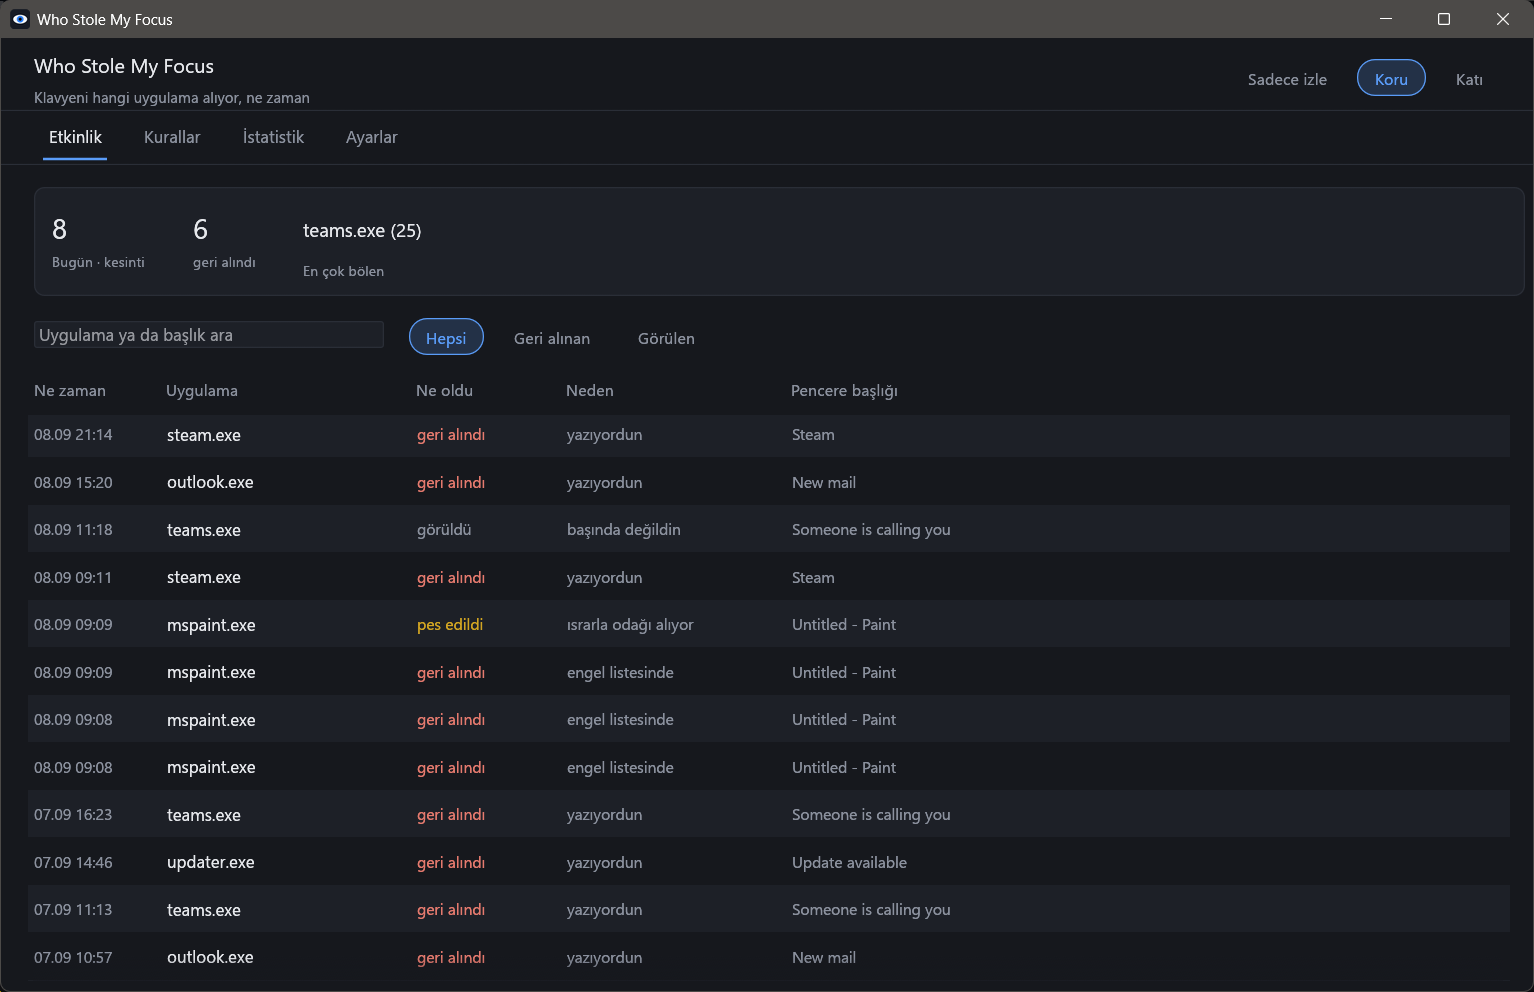
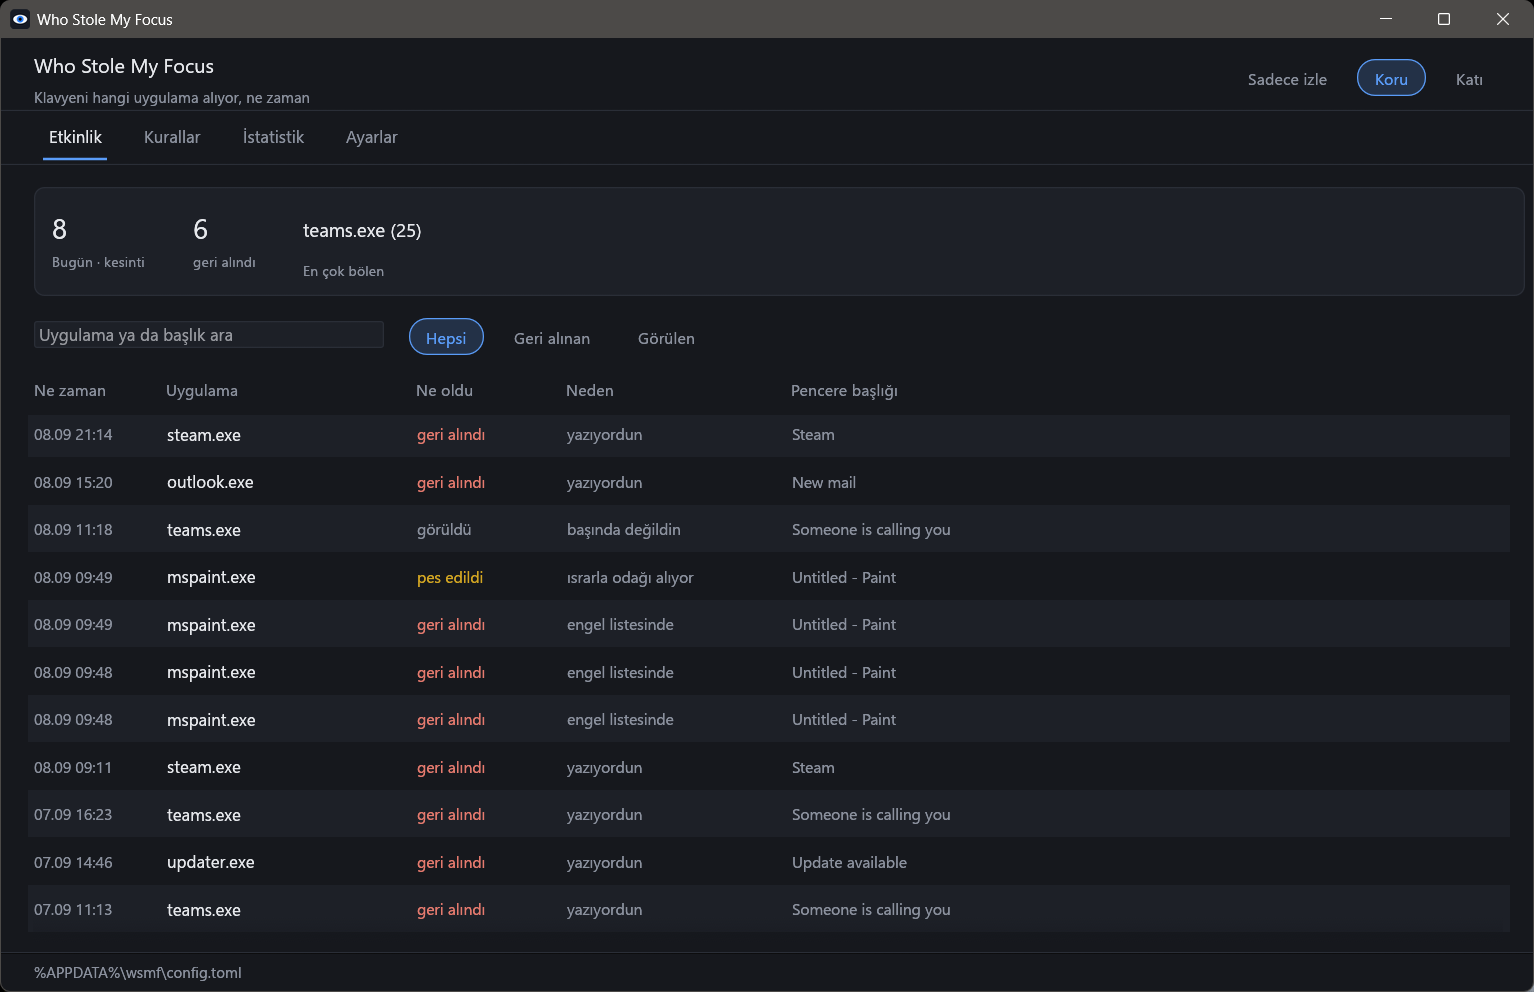
Centre the settings column, and write the path the way a person would
Settings were pinned to the left of a wide window with a wide empty strip beside
them; the column is now capped and centred. The status bar showed the fully
expanded roaming path, which is long and says nothing: it shortens back to
%APPDATA% when that is where it actually is.

diff --git a/src/panel/settings.rs b/src/panel/settings.rs
@@ -8,10 +8,14 @@ use eframe::egui::{self, RichText, Ui};
 pub fn show(panel: &mut Panel, ui: &mut Ui) {
     ui.add_space(theme::GAP);
     egui::ScrollArea::vertical().show(ui, |ui| {
+        // Settings read better in a column than stretched across a wide window, so
+        // the column is capped and centred rather than pinned to the left edge.
+        const COLUMN: f32 = 820.0;
         ui.horizontal(|ui| {
-            ui.add_space(theme::MARGIN);
+            let room = ui.available_width() - theme::MARGIN * 2.0;
+            ui.add_space(theme::MARGIN + ((room - COLUMN) / 2.0).max(0.0));
             ui.vertical(|ui| {
-                ui.set_max_width((ui.available_width() - theme::MARGIN).min(820.0));
+                ui.set_max_width(room.min(COLUMN));
                 mode(panel, ui);
                 ui.add_space(theme::GAP);
                 timing(panel, ui);

diff --git a/src/config.rs b/src/config.rs
@@ -208,6 +208,19 @@ pub fn log_path() -> PathBuf {
     data_dir().join("focus.log")
 }
 
+/// The settings path as a person would write it, with the roaming folder shortened
+/// back to %APPDATA%.
+pub fn config_path_label() -> String {
+    let path = config_path();
+    let text = path.to_string_lossy();
+    match std::env::var("APPDATA") {
+        Ok(roaming) if !roaming.is_empty() && text.starts_with(&roaming) => {
+            format!("%APPDATA%{}", &text[roaming.len()..])
+        }
+        _ => text.into_owned(),
+    }
+}
+
 /// When the settings file last changed, so the running copy can pick up an edit
 /// made in the panel, or in a text editor, without being restarted.
 pub fn changed_at() -> Option<SystemTime> {

diff --git a/src/panel/mod.rs b/src/panel/mod.rs
@@ -179,7 +179,7 @@ impl Panel {
             .show(ui, |ui| {
                 ui.horizontal(|ui| {
                     ui.add_space(theme::MARGIN);
-                    ui.label(theme::muted(&config::config_path().to_string_lossy(), dark));
+                    ui.label(theme::muted(&config::config_path_label(), dark));
                     ui.with_layout(egui::Layout::right_to_left(egui::Align::Center), |ui| {
                         ui.add_space(theme::MARGIN);
                         if recently_saved {
